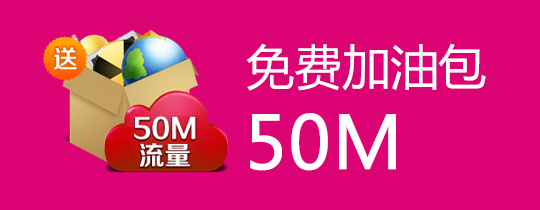
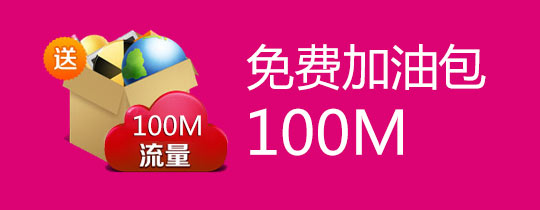
update

diff --git a/weixin/Spring/index.html b/weixin/Spring/index.html
@@ -281,7 +281,7 @@ $(function(){
                       }, 500, function() {
                          // Animation complete.
                          $('.word').animate({opacity:1,width:"90%",height:"100%",left:"-15%"},500);
-                         $('.wlby_movie').show("slow","linear",function(){ $(".button_stop,.button_stop_bak").show()});
+                         $('.wlby_movie').fadeIn("slow",function(){ $(".button_stop,.button_stop_bak").show()});
                       });
                          // Animation complete.
                       });
@@ -427,17 +427,17 @@ $(".getbutton").live("click",function(){
 
           if(ranVar==0){
 
-             new Dialog({id: "sendDiv",content: "<p><div id='award'><h3>\"新年快乐，前程似锦\"</h3><span>噢噢！你的马儿没吃早餐吗？快去12580惠生活它喂点好料吧！</span><div style='text-align:center'><img src='images/red.png' width='30%' style='margin-top:10px'></div></div><a class='getbutton' href='javascript:void'>点击查看</a></p>",blocker: true,lockLocation: true,title:'一定是没吃饱，只跑了“1里”',location:{ x: .5, y: .35 },speed:1000,draggable:false,close:false});
+             new Dialog({id: "sendDiv",content: "<p><div id='award'><h3>\"新年快乐 前程似锦\"</h3><span>噢噢！你的马儿没吃早餐吗？快去12580惠生活它喂点好料吧！</span><div style='text-align:center'><img src='images/red.png' width='30%' style='margin-top:10px'></div></div><a class='getbutton' href='javascript:void'>点击查看</a></p>",blocker: true,lockLocation: true,title:'呀，只跑了“1里”',location:{ x: .5, y: .35 },speed:1000,draggable:false,close:false});
               
           }
           else if(ranVar==1){
-              new Dialog({id: "sendDiv",content: "<p><div id='award'><h3>\"吉星高照，财运亨通\"</h3><span>不积跬步无以至千里，快去12580惠生活吃饱喝足，跑起来！</span><div style='text-align:center'><img src='images/red.png' width='30%' style='margin-top:10px'></div></div><a class='getbutton' href='javascript:void'>点击查看</a></p>",blocker: true,lockLocation: true,title:'\“5里地\”再跑一次吧',location:{ x: .5, y: .35 },speed:1000,draggable:false,close:false});
+              new Dialog({id: "sendDiv",content: "<p><div id='award'><h3>\"吉星高照 财运亨通\"</h3><span>不积跬步无以至千里，快去12580惠生活吃饱喝足，跑起来！</span><div style='text-align:center'><img src='images/red.png' width='30%' style='margin-top:10px'></div></div><a class='getbutton' href='javascript:void'>点击查看</a></p>",blocker: true,lockLocation: true,title:'\“5里地\”再跑一次吧',location:{ x: .5, y: .35 },speed:1000,draggable:false,close:false});
           }
           else if(ranVar==2){
-              new Dialog({id: "sendDiv",content: "<p><div id='award'><h3>\"合家欢乐，飞黄腾达\"</h3><span>千里之行以过百，是否油量不足行？客官，快去12580惠生活补充电能量吧！</span><div style='text-align:center'><img src='images/red.png' width='30%' style='margin-top:10px'></div></div><a class='getbutton' href='javascript:void'>点击查看</a></p>",blocker: true,lockLocation: true,title:'努力哦，\“10里\"',location:{ x: .5, y: .35 },speed:1000,draggable:false,close:false});
+              new Dialog({id: "sendDiv",content: "<p><div id='award'><h3>\"合家欢乐 飞黄腾达\"</h3><span>千里之行以过百，是否油量不足行？客官，快去12580惠生活补充电能量吧！</span><div style='text-align:center'><img src='images/red.png' width='30%' style='margin-top:10px'></div></div><a class='getbutton' href='javascript:void'>点击查看</a></p>",blocker: true,lockLocation: true,title:'努力哦，\“10里\"',location:{ x: .5, y: .35 },speed:1000,draggable:false,close:false});
           }
           else if(ranVar==3){
-              new Dialog({id: "sendDiv",content: "<p><div id='award'><h3>\"事事顺心，万事如意\"</h3><span>四爷，离您的成功大业只差一个会做饭的马尔泰若曦了。快去12580惠生活来一个吧!</span><div style='text-align:center'><img src='images/red.png' width='30%' style='margin-top:10px'></div></div><a class='getbutton' href='javascript:void'>点击查看</a></p>",blocker: true,lockLocation: true,title:'往前冲，\“30里\"',location:{ x: .5, y: .35 },speed:1000,draggable:false,close:false});
+              new Dialog({id: "sendDiv",content: "<p><div id='award'><h3>\"事事顺心 万事如意\"</h3><span>四爷，离您的成功大业只差一个会做饭的马尔泰若曦了。快去12580惠生活来一个吧!</span><div style='text-align:center'><img src='images/red.png' width='30%' style='margin-top:10px'></div></div><a class='getbutton' href='javascript:void'>点击查看</a></p>",blocker: true,lockLocation: true,title:'往前冲，\“30里\"',location:{ x: .5, y: .35 },speed:1000,draggable:false,close:false});
           }
           else if(ranVar==4){
               new Dialog({id: "sendDiv",content: "<p><div id='award'><h3>\"万事如意 四时平安\"</h3><span>您跑的这样好，您的家人知道吗？快快去12580惠生活和您的家人一起聚餐庆祝一下吧！</span><div style='text-align:center'><img src='images/red.png' width='30%' style='margin-top:10px'></div></div><a class='getbutton' href='javascript:void'>点击查看</a></p>",blocker: true,lockLocation: true,title:'加油,跑了50里',location:{ x: .5, y: .35 },speed:1000,draggable:false,close:false});
@@ -458,19 +458,19 @@ $(".getbutton").live("click",function(){
           }
           else if(ranVar==8){
             //旅行
-              new Dialog({id: "sendDiv",content: "<p><div id='award'><h3>\"豪春风及第 喜气盈门\"</h3><span>哇！您已跑过了60%的人。高兴时分，主人快去12580惠生活吃好喝好高歌一曲吧！</span><div style='text-align:center'><img src='images/red.png' width='30%' style='margin-top:10px'></div></div><a class='getbutton' href='javascript:void'>点击查看</a></p>",blocker: true,lockLocation: true,title:'振旗鼓！700里！！',location:{ x: .5, y: .35 },speed:1000,draggable:false,close:false});
+              new Dialog({id: "sendDiv",content: "<p><div id='award'><h3>\"豪春及第 喜气盈门\"</h3><span>哇！您已跑过了60%的人。高兴时分，主人快去12580惠生活吃好喝好高歌一曲吧！</span><div style='text-align:center'><img src='images/red.png' width='30%' style='margin-top:10px'></div></div><a class='getbutton' href='javascript:void'>点击查看</a></p>",blocker: true,lockLocation: true,title:'振旗鼓！700里！！',location:{ x: .5, y: .35 },speed:1000,draggable:false,close:false});
           }
           else if(ranVar==9){
             //旅行
-              new Dialog({id: "sendDiv",content: "<p><div id='award'><h3>\"百花齐放 万马奔腾\"</h3><span>不要问我爱你有多深，听我的歌声有多真。一起去12580惠生活领券好好乐一乐吧！</span><div style='text-align:center'><img src='images/red.png' width='30%' style='margin-top:10px'></div></div><a class='getbutton' href='javascript:void'>点击查看</a></p>",blocker: true,lockLocation: true,title:'厉害思密达！800里！！',location:{ x: .5, y: .35 },speed:1000,draggable:false,close:false});
+              new Dialog({id: "sendDiv",content: "<p><div id='award'><h3>\"百花齐放 万马奔腾\"</h3><span>不要问我爱你有多深，听我的歌声有多真。一起去12580惠生活领券好好乐一乐吧！</span><div style='text-align:center'><img src='images/red.png' width='30%' style='margin-top:10px'></div></div><a class='getbutton' href='javascript:void'>点击查看</a></p>",blocker: true,lockLocation: true,title:'厉害！800里！',location:{ x: .5, y: .35 },speed:1000,draggable:false,close:false});
           }
           else if(ranVar==10){
             //旅行
-              new Dialog({id: "sendDiv",content: "<p><div id='award'><h3>\"阖家幸福，万事如意\"</h3><span>如果你是电影里的主角，一定可以一日千里，练成绝世神功，快去12580惠生活看看属于你的精彩生活吧！</span><div style='text-align:center'><img src='images/red.png' width='30%' style='margin-top:10px'></div></div><a class='getbutton' href='javascript:void'>点击查看</a></p>",blocker: true,lockLocation: true,title:'您真是天才，“900里”！',location:{ x: .5, y: .35 },speed:1000,draggable:false,close:false});
+              new Dialog({id: "sendDiv",content: "<p><div id='award'><h3>\"阖家幸福 万事如意\"</h3><span>如果你是电影里的主角，一定可以一日千里，练成绝世神功，快去12580惠生活看看属于你的精彩生活吧！</span><div style='text-align:center'><img src='images/red.png' width='30%' style='margin-top:10px'></div></div><a class='getbutton' href='javascript:void'>点击查看</a></p>",blocker: true,lockLocation: true,title:'天才，“900里”！',location:{ x: .5, y: .35 },speed:1000,draggable:false,close:false});
           }
           else if(ranVar==11){
             //旅行
-              new Dialog({id: "sendDiv",content: "<p><div id='award'><h3>\"豪春风及第 喜气盈门\"</h3><span>未来的美好在于此刻的拼搏，看看你的油量有多少吧！</span><div style='text-align:center'><img src='images/red.png' width='30%' style='margin-top:10px'></div></div><a class='getbutton' href='javascript:void'>点击查看</a></p>",blocker: true,lockLocation: true,title:'大神！1000里！！',location:{ x: .5, y: .35 },speed:1000,draggable:false,close:false});
+              new Dialog({id: "sendDiv",content: "<p><div id='award'><h3>\"豪春及第 喜气盈门\"</h3><span>未来的美好在于此刻的拼搏，看看你的油量有多少吧！</span><div style='text-align:center'><img src='images/red.png' width='30%' style='margin-top:10px'></div></div><a class='getbutton' href='javascript:void'>点击查看</a></p>",blocker: true,lockLocation: true,title:'大神！1000里！！',location:{ x: .5, y: .35 },speed:1000,draggable:false,close:false});
           }
           else{
               new Dialog({id: "sendDiv",content: "<p><div id='award'><h3>\" MY GOD! MY GOD!\"</h3><span>这个是神人页面，你看到说明你今年财运亨通</span><div style='text-align:center'><img src='images/red.png' width='30%' style='margin-top:10px'></div></div><a class='getbutton' href='javascript:void'>点击查看</a></p>",blocker: true,lockLocation: true,title:'看到这的话，你是神人了',location:{ x: .5, y: .35 },speed:1000,draggable:false,close:false});

diff --git a/weixin/Spring/city/10086/liuliang.html b/weixin/Spring/city/10086/liuliang.html
@@ -117,9 +117,11 @@ $(".sendButton").live("click",function(){
 
       <div class="wrapBox"><h3>流量包介绍</h3><p>
 
-1.获赠的免费流量包当月生效（2月1日-15日）、次月生效（1月30、31日两天获得用户）<br/>
-2.一人最多能领取三次免费流量包（你可以自己使用或者转赠朋友）<br/>
-
+1、赠送100MB省内2G、3G网移动数据流量，超出后按原流量资费计费<br/>
+2、赠送的移动数据流量仅限在2014年2月份使用。<br/>
+3、开通套餐则默认开通CMWAP、CMNET功能。<br/>
+4、每人有多次领取套餐的机会，但仅能领取并使用一次100M移动数据流量套餐。<br/>
+5、每次获得的100M移动数据流量可赠送多人，但仅能被其中从未领取过的一个被赠用户领取并使用。<br/>
 
 
       </p></div>
@@ -198,8 +200,9 @@ $(".sendButton").live("click",function(){
 <div style="display:none">
 <script type="text/javascript">var cnzz_protocol = (("https:" == document.location.protocol) ? " https://" : " http://");document.write(unescape("%3Cspan id='cnzz_stat_icon_1000225892'%3E%3C/span%3E%3Cscript src='" + cnzz_protocol + "s22.cnzz.com/z_stat.php%3Fid%3D1000225892' type='text/javascript'%3E%3C/script%3E"));</script>
 </div>
-<input type="hidden" id="couponId" name="couponId" value="1001531994373"/>
 <!--
+<input type="hidden" id="couponId" name="couponId" value="1001531994373"/>
+
 <div id="mobile_box" style="display:none;">
     <fieldset>
         <h3>请输入手机号：</h3>

diff --git a/weixin/Spring/city/fuzhou/shopNew9.html b/weixin/Spring/city/fuzhou/shopNew9.html
@@ -154,11 +154,11 @@ $(".sendButton").live("click",function(){
 
       <div class="wrapBox"><h3>本单详情</h3><p>
         优惠内容：<br/>
-           2014.01.10-2015.01.09凭12580优惠券进店可享受全场消费9折优惠。
+           2013.12.01-2014.05.31，凭12580优惠劵可享受：1、11:00-18:00到店下载大歌星APP软件，可免费试用包厢一小时；2、19:00-02:00包厢费9折
       </p></div>
       <div class="wrapBox"><h3>商户信息</h3><p>
-            电话：18060685077<br/>
-地址：福州市晋安区五四北泰禾广场商业街230店
+           电话：0591-63116666<br/>
+地址：仓山区万达广场三层
 
 
       </p></div>
@@ -231,7 +231,7 @@ $(".sendButton").live("click",function(){
 <div style="display:none">
 <script type="text/javascript">var cnzz_protocol = (("https:" == document.location.protocol) ? " https://" : " http://");document.write(unescape("%3Cspan id='cnzz_stat_icon_1000225892'%3E%3C/span%3E%3Cscript src='" + cnzz_protocol + "s22.cnzz.com/z_stat.php%3Fid%3D1000225892' type='text/javascript'%3E%3C/script%3E"));</script>
 </div>
-<input type="hidden" id="couponId" name="couponId" value="1001535819952"/>
+<input type="hidden" id="couponId" name="couponId" value="1001534334686"/>
  
 <script src="../../assets/dialog/dialog.min.js"></script>
 </body>

diff --git a/weixin/Spring/city/xiamen/shopNew10.html b/weixin/Spring/city/xiamen/shopNew10.html
@@ -155,6 +155,7 @@ $(".sendButton").live("click",function(){
       <div class="wrapBox"><h3>本单详情</h3><p>
         优惠内容：<br/>
            2014年12月20日前，厦门移动客户拨打12580可免费下载鑫老杨牛肉面馆优惠券，凭券至鑫老杨牛肉面馆可享8.8折优惠，不与其它优惠同享。
+      </p></div>
       <div class="wrapBox"><h3>商户信息</h3><p>
             电话：0592-5554620<br/>
 地址：厦门市湖里区SM城市广场一期4楼466号

diff --git a/weixin/Spring/city/nanping/shopNew8.html b/weixin/Spring/city/nanping/shopNew8.html
@@ -155,6 +155,7 @@ $(".sendButton").live("click",function(){
       <div class="wrapBox"><h3>本单详情</h3><p>
         优惠内容：<br/>
            2015年10月12日前凭此12580券到摩尼卡可享9折优惠（非自制商品除外）
+       </div>
       <div class="wrapBox"><h3>商户信息</h3><p>
             电话：0599-2886788<br/>
 地址：南平市浦城县小圆弧粮贸大楼

diff --git a/weixin/Spring/city/sanming/shopNew5.html b/weixin/Spring/city/sanming/shopNew5.html
@@ -165,7 +165,7 @@ $(".sendButton").live("click",function(){
 
       <p class="wei_copy"><i>12580惠生活</i><span class="huiCopy">©中国移动福建分公司</span></p>
       <script>
-      <script>
+      
     document.addEventListener('WeixinJSBridgeReady', function onBridgeReady() {
         window.shareData = {  
 			//分享图片http://218.207.182.80:8091/12580/more/shopNe

diff --git a/weixin/Spring/city/sanming/shopNew1.html b/weixin/Spring/city/sanming/shopNew1.html
@@ -42,7 +42,7 @@ return rtrim(ltrim(s));
 $(".sendButton").live("click",function(){
 
 
-        var tel= $("#recvNbr").val();
+        var tel=$("#recvNbr").val();
         
         
         if(/^0?(13[0-9]|15[012356789]|18[0236789]|14[57])[0-9]{8}$/.test(tel))

diff --git a/weixin/Spring/city/xiamen/shopNew9.html b/weixin/Spring/city/xiamen/shopNew9.html
@@ -13,7 +13,7 @@
 
 
 $(function(){
-var weixinURL="http://218.207.182.80:8088/wx12580/city/xiamen/shopNew8.html";
+var weixinURL="http://218.207.182.80:8088/wx12580/city/xiamen/shopNew9.html";
 function ltrim(s){
 return s.replace( /^s*/, "");
 }
